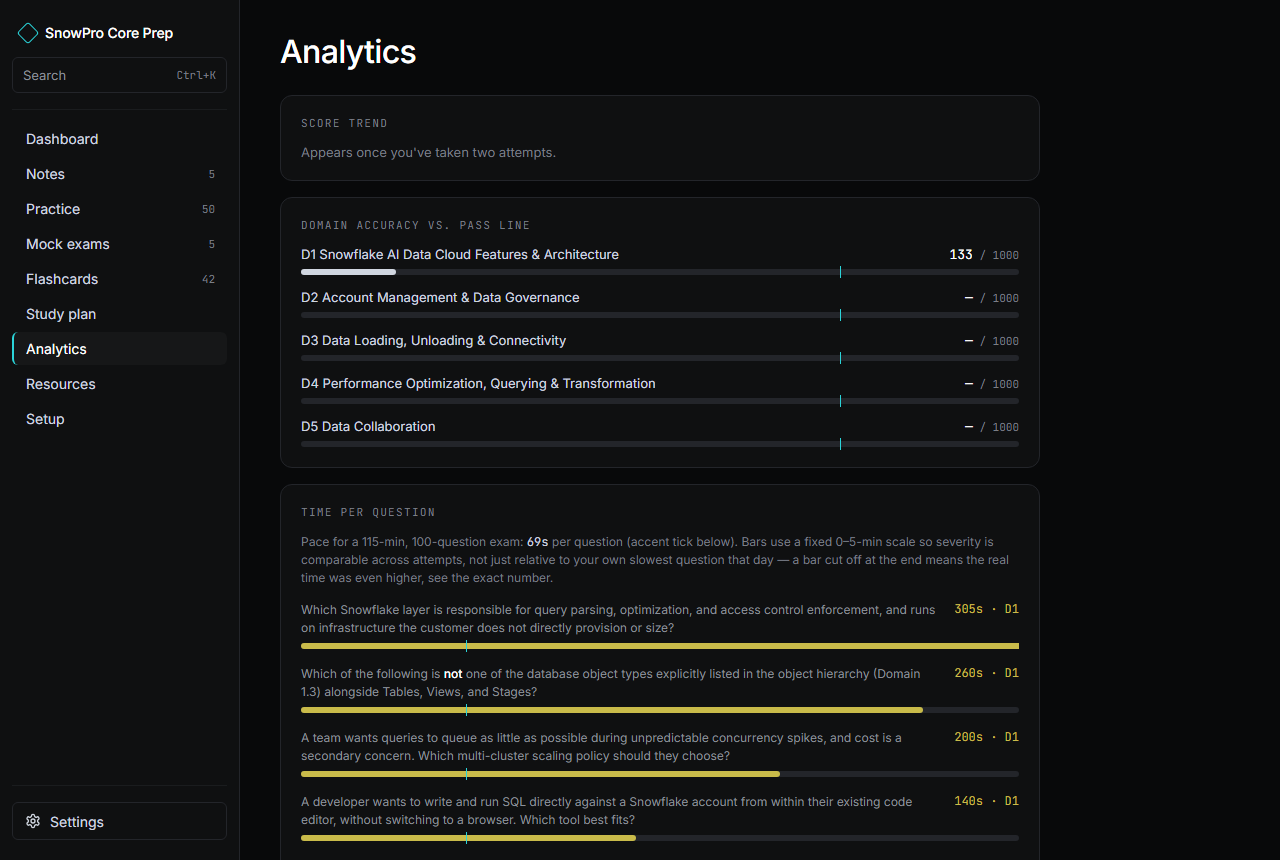
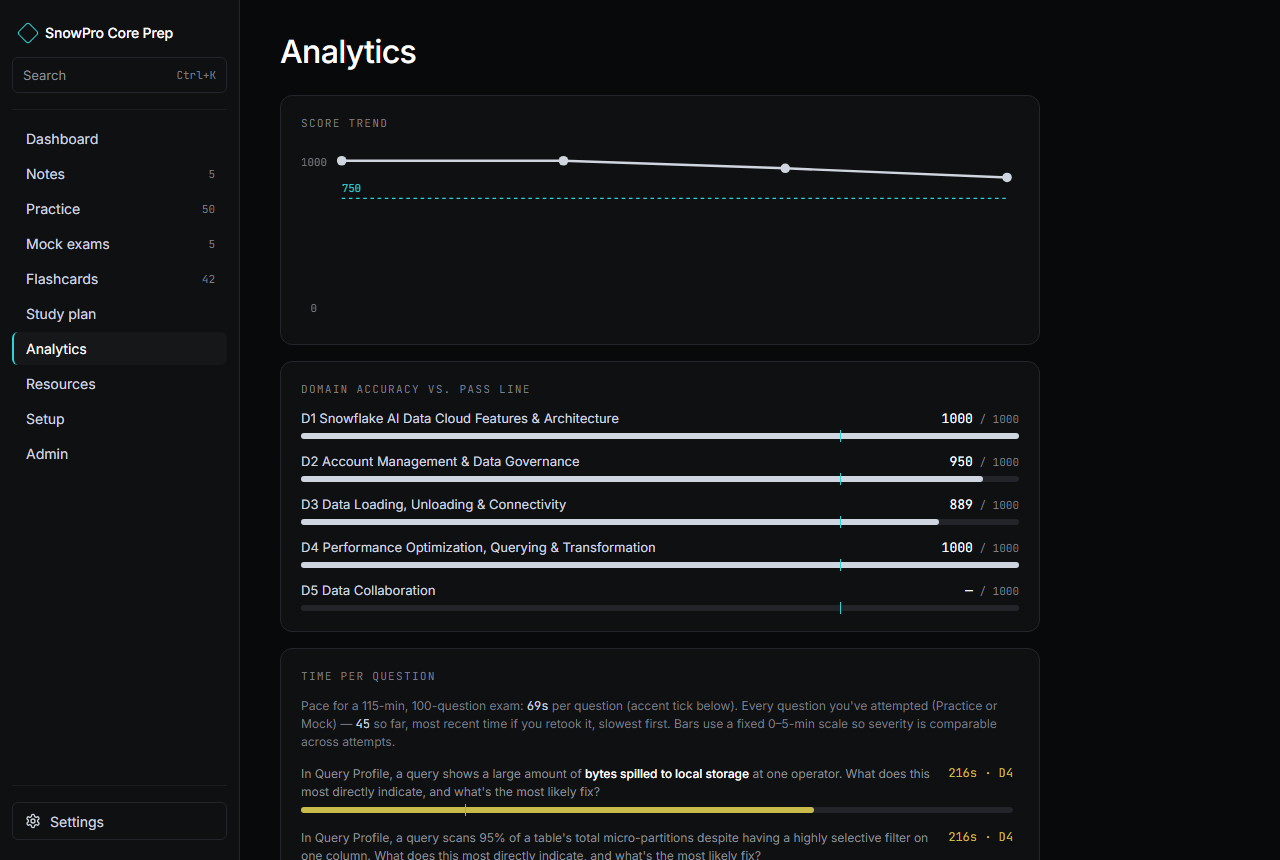
Show every attempted question in the timing chart, deduped by latest attempt
Gaurav's feedback on the first pass: the top-8-slowest-ever cutoff meant
old pre-fix attempts (with their bug-inflated, identical timeSec values)
could permanently out-rank real per-question data, since a fixed inflated
number beats any genuine time. slowestQuestions() now returns one row per
distinct question ever attempted across Practice and Mock, keeping only
each question's most recently recorded time - a retake supersedes a
stale/corrupted value automatically instead of both coexisting or the old
one winning by coincidence of sort order.

TimingView renders the full, uncapped, slowest-first list inside a
maxHeight/overflow-y scrollable container (matching CommandPalette's
existing convention) instead of truncating to a fixed count.

Changed region(s): [[0.2188, 0.1512, 0.8125, 1.0], [0.0312, 0.514, 0.0625, 0.5442]]

diff --git a/app/src/pages/Analytics.tsx b/app/src/pages/Analytics.tsx
@@ -60,7 +60,7 @@ export function Analytics() {
   if (!content) return <div style={{ color: "var(--text-dim)" }}>Loading…</div>;
 
   const readiness = overallReadiness(content, progress.attempts);
-  const slow = slowestQuestions(content, progress.attempts, 8);
+  const slow = slowestQuestions(content, progress.attempts);
 
   return (
     <div style={{ maxWidth: 760, display: "flex", flexDirection: "column", gap: 16 }}>
@@ -206,11 +206,12 @@ function TimingView({ content, slow }: { content: ContentBundle; slow: ReturnTyp
     <div>
       <div style={{ fontSize: 12, color: "var(--text-dim)", marginBottom: 14, lineHeight: 1.5 }}>
         Pace for a 115-min, 100-question exam:{" "}
-        <span style={{ fontFamily: "var(--font-mono)", color: "var(--text-body)" }}>{PACE_SEC}s</span> per question (accent tick below). Bars use
-        a fixed 0–{Math.round(TIME_SCALE_MAX_SEC / 60)}-min scale so severity is comparable across attempts, not just relative to your own
-        slowest question that day{anyClipped ? " — a bar cut off at the end means the real time was even higher, see the exact number" : ""}.
+        <span style={{ fontFamily: "var(--font-mono)", color: "var(--text-body)" }}>{PACE_SEC}s</span> per question (accent tick below). Every
+        question you've attempted (Practice or Mock) — <span style={{ fontFamily: "var(--font-mono)", color: "var(--text-body)" }}>{slow.length}</span>{" "}
+        so far, most recent time if you retook it, slowest first. Bars use a fixed 0–{Math.round(TIME_SCALE_MAX_SEC / 60)}-min scale so severity is
+        comparable across attempts{anyClipped ? " — a bar cut off at the end means the real time was even higher, see the exact number" : ""}.
       </div>
-      <div style={{ display: "flex", flexDirection: "column", gap: 16 }}>
+      <div style={{ maxHeight: "50vh", overflowY: "auto", display: "flex", flexDirection: "column", gap: 16, paddingRight: 6 }}>
         {slow.map((s) => {
           const overPace = s.timeSec > PACE_SEC;
           const clipped = s.timeSec > TIME_SCALE_MAX_SEC;

diff --git a/app/src/lib/timing.ts b/app/src/lib/timing.ts
@@ -15,15 +15,26 @@ export interface SlowQuestion {
   attemptId: string;
 }
 
-export function slowestQuestions(content: ContentBundle, attempts: Attempt[], limit = 10): SlowQuestion[] {
+/**
+ * One row per distinct question ever attempted (Practice or Mock) — deliberately not one row per
+ * (question, attempt) pair. A question answered more than once keeps only its most recently
+ * recorded timeSec: a retake supersedes an older recorded time for the same question rather than
+ * both coexisting, which also means a stale/corrupted value (see issue #81's original bug, where
+ * every question in an attempt was wrongly stamped with the same submit-time total) gets replaced
+ * the moment that question is answered again post-fix, instead of permanently out-ranking correct
+ * data in the sort below. Sorted slowest-first, uncapped — the caller renders this inside a
+ * scrollable container rather than truncating to a fixed count.
+ */
+export function slowestQuestions(content: ContentBundle, attempts: Attempt[]): SlowQuestion[] {
   const questionsById = new Map(content.questions.map((q) => [q.id, q]));
-  const all: SlowQuestion[] = [];
-  for (const attempt of attempts) {
+  const latestByQuestion = new Map<string, SlowQuestion>();
+  const byRecency = [...attempts].sort((a, b) => a.submittedAt.localeCompare(b.submittedAt));
+  for (const attempt of byRecency) {
     for (const [qid, answer] of Object.entries(attempt.answers)) {
       const question = questionsById.get(qid);
       if (!question || answer.timeSec <= 0) continue;
-      all.push({ questionId: qid, domainId: question.domainId, stem: question.stem, timeSec: answer.timeSec, attemptId: attempt.id });
+      latestByQuestion.set(qid, { questionId: qid, domainId: question.domainId, stem: question.stem, timeSec: answer.timeSec, attemptId: attempt.id });
     }
   }
-  return all.sort((a, b) => b.timeSec - a.timeSec).slice(0, limit);
+  return [...latestByQuestion.values()].sort((a, b) => b.timeSec - a.timeSec);
 }

diff --git a/DOCS_MAP.md b/DOCS_MAP.md
@@ -22,7 +22,7 @@ to the rule it describes.
 | **Theming (Light/Dark)** | `app/src/lib/theme.ts`, `app/src/styles/tokens.css`, `app/src/components/SettingsPanel.tsx` (Appearance section) | README.md's Settings → Appearance bullet; CLAUDE.md's theme paragraph under `## Frontend app (app/)` |
 | **Content pipeline** (markdown → `content.json`/notes JSON/search index) | `pipeline/src/index.ts`, `pipeline/src/parsers/*`, `pipeline/src/assemble/*`, `pipeline/src/write/*` | CLAUDE.md `## Content pipeline (pipeline/)`; TECH_STACK.md `## 2. The content pipeline`; README.md `## Adding or editing content` and its `### Domain notes`/`### Practice questions`/etc. subsections |
 | **Quiz runner, scoring, readiness** | `app/src/pages/Runner.tsx`, `app/src/lib/scoring.ts`, `app/src/lib/readiness.ts` | CLAUDE.md's Readiness paragraphs under `## Frontend app (app/)`; README.md's `## Features` (Practice/Mock exams/Analytics bullets) |
-| **Analytics — timing chart / per-question deep link** (issue #81: per-question `timeSec` capture, the "Time per question" chart's absolute time scale, and its `#question-<id>` deep link into Results) | `app/src/pages/Runner.tsx` (`finalize()` — writes each question's own `answers[qid].timeSec`, not one shared elapsed-at-submit stamp), `app/src/lib/timing.ts` (`slowestQuestions()`), `app/src/pages/Analytics.tsx` (`TimingView`, `TIME_SCALE_MAX_SEC`), `app/src/pages/Results.tsx` (`ReviewCard`'s `id`/`highlighted`, the scroll/focus/auto-open effect) | CLAUDE.md's "Per-question timing and Analytics' 'Time per question' chart" paragraph under `## Frontend app (app/)`; `.github/screenshot-analytics.png` |
+| **Analytics — timing chart / per-question deep link** (issue #81: per-question `timeSec` capture, `slowestQuestions()`'s latest-per-question dedup across all attempts, the "Time per question" chart's absolute time scale + scrollable uncapped list, and its `#question-<id>` deep link into Results) | `app/src/pages/Runner.tsx` (`finalize()` — writes each question's own `answers[qid].timeSec`, not one shared elapsed-at-submit stamp), `app/src/lib/timing.ts` (`slowestQuestions()`), `app/src/pages/Analytics.tsx` (`TimingView`, `TIME_SCALE_MAX_SEC`), `app/src/pages/Results.tsx` (`ReviewCard`'s `id`/`highlighted`, the scroll/focus/auto-open effect) | CLAUDE.md's "Per-question timing and Analytics' 'Time per question' chart" paragraph under `## Frontend app (app/)`; `.github/screenshot-analytics.png` |
 | **Study plan compression / crunch mode** (linear vs. crunch remap, per-task must/skippable tiers, the Mock 1 → gap → Mock 2 invariant, pinned exam registration — issue #76) | `app/src/lib/planDates.ts` (`buildPlan()`; `remapPlan()` is also used directly by `mcp-server/src/session.ts`'s `get_study_plan` — don't rename/change its signature without updating that call site too), `pipeline/src/parsers/studyPlan.ts` (`{skip-ok}`/`{pin-early}`/`{mock:1}`/`{mock:2}`/`{review}` tag parsing) | CLAUDE.md's `src/parsers/studyPlan.ts` bullet under `## Content pipeline`; `claude_plans/snowpro-crunch-mode-study-plan.md` (full bucketing table); `app/src/pages/StudyPlan.tsx` and `Dashboard.tsx`'s own rendering of `buildPlan()`'s output (PR2) |
 | **MCP server** | `mcp-server/src/*` | `mcp-server/README.md` (all sections — it's the primary doc); CLAUDE.md `## MCP server (mcp-server/)`; TECH_STACK.md `## 6. The MCP server`; README.md `### Option C — MCP server` |
 | **Docker / Compose / deployment shape** | `Dockerfile`, `docker-compose.yml` | CLAUDE.md `## Running it`; TECH_STACK.md `## 7. Containerization`; README.md's install instructions (`### Option A`, including its GHCR-pull callout — see the CI/CD row below for the workflow that publishes it) |

diff --git a/CLAUDE.md b/CLAUDE.md
@@ -477,16 +477,24 @@ render it, not just Notes' pre-rendered HTML sections.
 — every question keeps its own real elapsed-at-answer value, not one shared elapsed-at-submit
 timestamp stamped onto all of them (the original bug: every bar in the chart showed the same
 maxed-out value because every question's `timeSec` was identical by construction). `lib/timing.ts`'s
-`slowestQuestions()` surfaces the 8 slowest across all attempts; `Analytics.tsx`'s `TimingView`
-renders them against a **fixed absolute scale** (`TIME_SCALE_MAX_SEC = 300`, ~4.3x the 69s pace
-target), not `Math.max()` of that render's own 8 values — the old relative scaling made the
-slowest-of-8 always render as a full-width bar regardless of whether the real outlier was 90s or
-400s, so severity wasn't comparable across attempts and the pace tick's position moved every
-render. This matches the "Domain accuracy" chart directly above it on the same page, which already
-used a fixed 0-1000 scale with a fixed pass-line tick for the identical reason. A bar beyond the
-cap clips at 100% width with a square-cut trailing edge (vs. a rounded edge for a bar showing its
-true length); the `{timeSec}s` label next to every bar stays exact regardless, so clipping never
-loses information, it only narrows the bar's own job to coarse severity at a glance. Each row's
+`slowestQuestions()` returns **one row per distinct question ever attempted** (Practice or Mock),
+not one row per (question, attempt) pair and not capped to a top N — a question answered more than
+once keeps only its most recently recorded `timeSec` (attempts processed oldest-to-newest into a
+`Map` keyed by question id, so the last write per question wins), sorted slowest-first. This means a
+retake supersedes an older recorded time for the same question automatically, including a
+stale/corrupted pre-fix value — it stops out-ranking correct data the moment that question is
+answered again, rather than sitting at a fixed top-8 forever. `Analytics.tsx`'s `TimingView` renders
+the full uncapped list inside a `maxHeight: 50vh; overflowY: auto` scrollable container (matching
+`CommandPalette.tsx`'s own scrollable-list convention) rather than truncating it, against a **fixed
+absolute scale** (`TIME_SCALE_MAX_SEC = 300`, ~4.3x the 69s pace target), not `Math.max()` of the
+values being shown — the old relative scaling made the single slowest row always render as a
+full-width bar regardless of whether the real outlier was 90s or 400s, so severity wasn't comparable
+across attempts and the pace tick's position moved every render. This matches the "Domain accuracy"
+chart directly above it on the same page, which already used a fixed 0-1000 scale with a fixed
+pass-line tick for the identical reason. A bar beyond the cap clips at 100% width with a square-cut
+trailing edge (vs. a rounded edge for a bar showing its true length); the `{timeSec}s` label next to
+every bar stays exact regardless, so clipping never loses information, it only narrows the bar's own
+job to coarse severity at a glance. Each row's
 question stem renders in full (`renderInline`, wrapped, no truncation) — matching how every other
 place in the app shows a question stem (`Results.tsx`, `Practice.tsx`'s missed-review) — instead of
 the single-line `text-overflow: ellipsis` truncation it used before, which made a row impossible to
